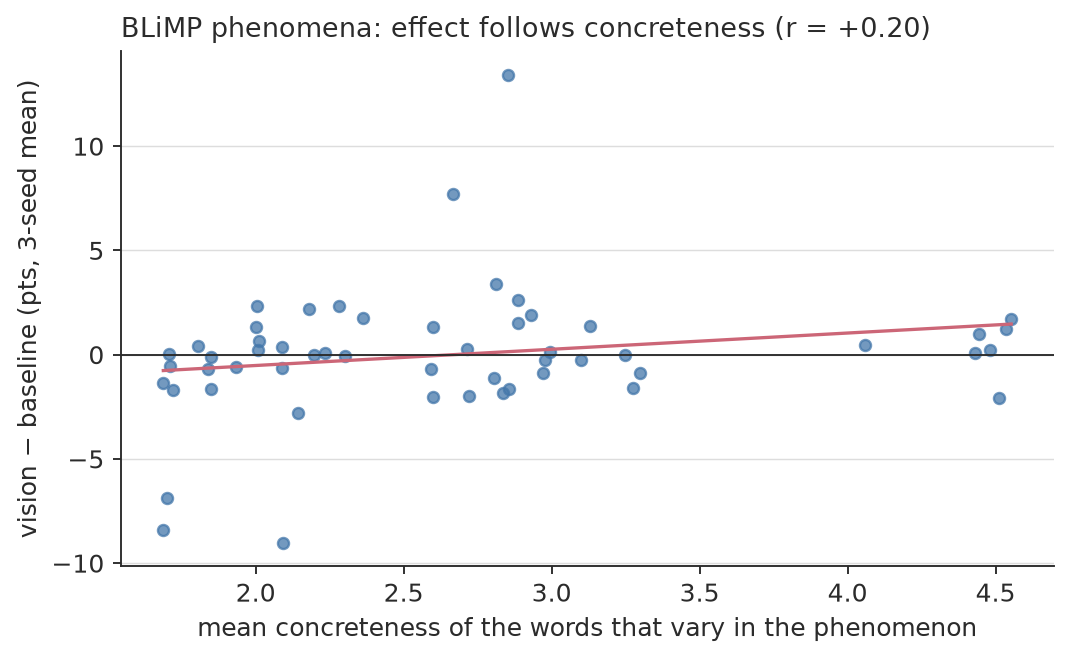
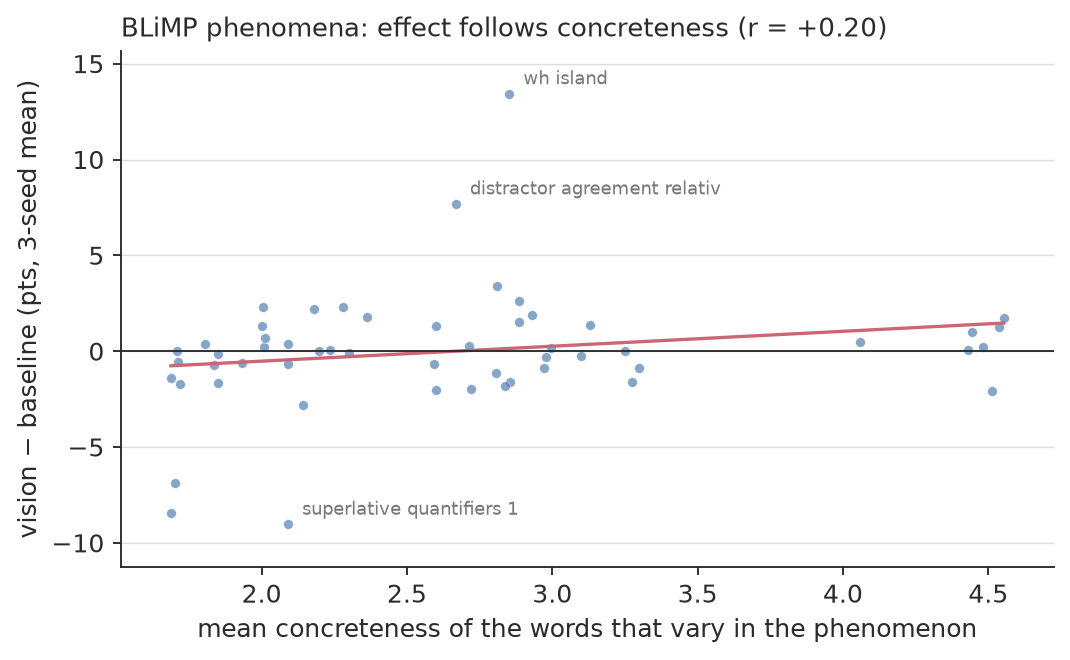
Abstract-word grounding: consolidated analysis (retention-by-band + curated-sets figure, BLiMP concreteness gradient, MLM-loss-by-class with per-seed dots), tables, seeded function-word and abstract-band word lists; embedded in docs and README

diff --git a/eval/analyze_abstract.py b/eval/analyze_abstract.py
@@ -97,7 +97,7 @@ ax1.bar(x - 0.19, r_sam, 0.36, color=BLUE, label="vision-init model")
 ax1.bar(x + 0.19, r_flo, 0.36, color=GRAY, label="baseline (floor)")
 ax1.set_xticks(x, names); ax1.set_ylabel("RSA to visual anchor @100M")
 ax1.set_title("Retention by concreteness band", loc="left")
-ax1.legend(); style_ax(ax1)
+style_ax(ax1)
 groups = [("function\nwords", sync_ids), ("concrete\ncontrols", conc_ids)]
 vals_r = [rsa(A[i].astype(np.float64), E[i].astype(np.float64)) for _, i in groups]
 vals_f = [rsa(A[i].astype(np.float64), B[i].astype(np.float64)) for _, i in groups]
@@ -106,7 +106,13 @@ ax2.bar(x2 - 0.19, vals_r, 0.36, color=BLUE)
 ax2.bar(x2 + 0.19, vals_f, 0.36, color=GRAY)
 ax2.set_xticks(x2, [g for g, _ in groups])
 ax2.set_title("Curated word sets", loc="left"); style_ax(ax2)
-fig.tight_layout(); fig.savefig("eval/plots/abstract_retention.png"); plt.close(fig)
+handles = [plt.Rectangle((0, 0), 1, 1, color=BLUE),
+           plt.Rectangle((0, 0), 1, 1, color=GRAY)]
+fig.legend(handles, ["vision-init model", "baseline (floor)"],
+           ncol=2, loc="upper right", bbox_to_anchor=(0.98, 1.02),
+           fontsize=9)
+fig.tight_layout(rect=(0, 0, 1, 0.94))
+fig.savefig("eval/plots/abstract_retention.png"); plt.close(fig)
 md += ["## Retention (RSA to visual anchor at 100M words)", "",
        "| group | n | vision-init | baseline floor |", "|--|--:|--:|--:|"]
 for n in names:
@@ -155,7 +161,8 @@ for f in sorted(cands[0].glob("*.jsonl")):
 cx = np.array([p[0] for p in pts]); cy = np.array([p[1] for p in pts])
 r = float(np.corrcoef(cx, cy)[0, 1])
 fig, ax = plt.subplots(figsize=(6.4, 4))
-ax.scatter(cx, cy, s=22, color=BLUE, alpha=0.75)
+ax.scatter(cx, cy, s=17, color=BLUE, alpha=0.65,
+           edgecolor="white", linewidth=0.3)
 m_, b_ = np.polyfit(cx, cy, 1)
 xs = np.linspace(cx.min(), cx.max(), 10)
 ax.plot(xs, m_ * xs + b_, color=RED, lw=1.4)
@@ -163,7 +170,13 @@ ax.axhline(0, color=INK, lw=0.8)
 ax.set_xlabel("mean concreteness of the words that vary in the phenomenon")
 ax.set_ylabel("vision \u2212 baseline (pts, 3-seed mean)")
 ax.set_title(f"BLiMP phenomena: effect follows concreteness (r = {r:+.2f})",
-             loc="left")
+             loc="left", fontsize=11)
+resid = cy - (m_ * cx + b_)
+for i in np.argsort(-np.abs(resid))[:3]:
+    ax.annotate(pts[i][2].replace("_", " ")[:28],
+                (cx[i], cy[i]), textcoords="offset points",
+                xytext=(6, 4), fontsize=7.5, color=GRAY)
+ax.margins(x=0.06, y=0.10)
 style_ax(ax)
 fig.tight_layout(); fig.savefig("eval/plots/abstract_gradient.png"); plt.close(fig)
 md += ["", f"## BLiMP concreteness gradient: r = {r:+.2f} over {len(pts)} "
@@ -179,7 +192,9 @@ means = [np.mean(mlm[c]["deltas"]) for c in order]
 cols = [BLUE if m < 0 else RED for m in means]
 ax.barh(y, means, 0.55, color=cols)
 for yi, c in zip(y, order):
-    ax.scatter(mlm[c]["deltas"], [yi] * 3, color=INK, s=14, zorder=3)
+    ax.scatter(mlm[c]["deltas"], [yi] * 3, color=INK, s=15, zorder=3,
+               edgecolor="white", linewidth=0.6)
+ax.margins(x=0.14)
 ax.set_yticks(y, [f"{c}  (n={mlm[c]['n']})" for c in order])
 ax.axvline(0, color=INK, lw=0.8)
 ax.set_xlabel("Δ masked-token cross-entropy (vision \u2212 baseline; "

diff --git a/docs/grounding_scope.md b/docs/grounding_scope.md
@@ -15,6 +15,13 @@ Word lists: [`eval/abstract_words/`](../eval/abstract_words/).
 ![gradient](../eval/plots/abstract_gradient.png)
 ![mlm](../eval/plots/abstract_mlm.png)
 
+Tables: [`eval/abstract_results.md`](../eval/abstract_results.md).
+Word lists: [`eval/abstract_words/`](../eval/abstract_words/).
+
+![retention](../eval/plots/abstract_retention.png)
+![gradient](../eval/plots/abstract_gradient.png)
+![mlm](../eval/plots/abstract_mlm.png)
+
 ## What we found
 
 **1. The abstract seeds are real signal, not noise.** One might expect a
